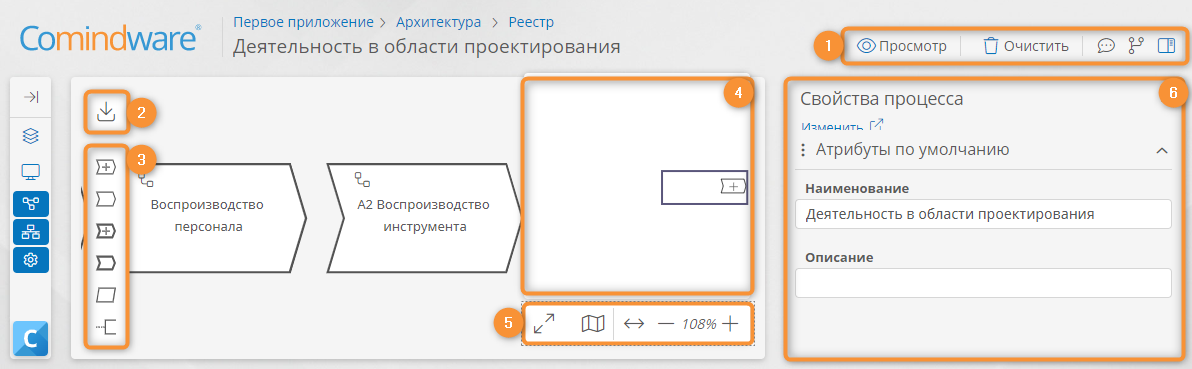
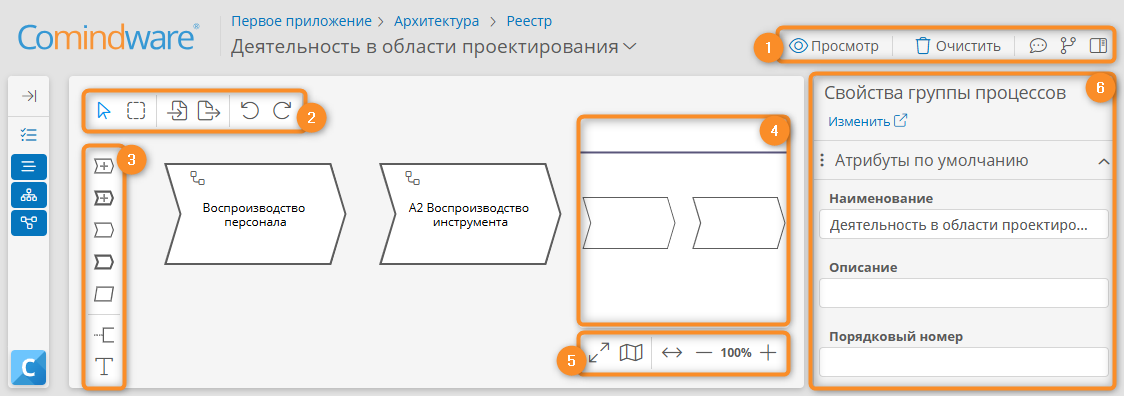
[#1864359] Edited architect designer index.md and screenshots

Changed region(s): [[0.0, 0.0596, 1.0, 1.0], [0.0, 0.0298, 0.5605, 0.1491]]

diff --git a/docs/ru/architect/process_architecture_modeling/diagram_designer/index.md b/docs/ru/architect/process_architecture_modeling/diagram_designer/index.md
@@ -30,23 +30,34 @@ hide:
 
 *![Конструктор диаграмм бизнес-способностей](process_architecture_modeling_business_capabilities_diagram_designer.png)*
 
-1. Кнопки типовых операций
+1. Кнопки типовых операций:
     * **Просмотр** <i class="fa-light fa-eye"></i> — переход в режим просмотра диаграммы.
     * **Очистить** <i class="fa-light fa-trash"></i> — безвозвратное удаление всех элементов с диаграммы. При нажатии этой кнопки отобразится запрос подтверждения.
     * **Обсуждение** <i class="fa-light fa-comment-dots"></i> — отображение чата для обсуждения диаграммы.
     * **Версии** <i class="fa-light fa-code-branch"></i> — управление версиями диаграммы.
     * **Свойства** <i class="fa-light fa-sidebar-flip"></i> — [настройка свойств][architect_configuring_process_entity_properties] выбранного элемента или всей диаграммы.
 2. Кнопки работы с диаграммой:
-    * **Указатель** <i class=" fal  fa-arrow-pointer "></i>
-    * **Лассо** <i class=" fal  fa-square-dashed "></i>
-    * **Импорт** <i class="fa-light fa-arrow-down-to-bracket"></i>
-    * **Экспорт** <i class=" fal  fa-file-export "></i>
-    * **Проверить** <i class="fa-light  fa-circle-exclamation-check"></i> — позволяют [импортировать][architect_importing_process_entity] и [проверить диаграмму][architect_verify_diagram]. Кнопка «**Проверить**» отображается только для диаграмм процессов. Проверка диаграмм бизнес-способностей не предусмотрена.
-    * **Отменить** <i class=" fal  fa-arrow-rotate-left "></i>
-    * **Повторить** <i class=" fal  fa-arrow-rotate-right "></i>
+    * **Указатель** <i class=" fal  fa-arrow-pointer "></i> — режим выбора одного элемента диаграммы.
+    * **Лассо** <i class=" fal  fa-square-dashed "></i> — режим захвата нескольких элементов диаграммы.
+    * **Импорт** <i class=" fal  fa-file-import "></i> — [загрузка диаграммы][architect_exporting_process_entity] из файла формата `BPMN`.
+    * **Экспорт** <i class=" fal  fa-file-export "></i> — [выгрузка диаграммы][architect_importing_process_entity] в виде файла формата `BPMN`, `PNG` или `SVG`. При нажатии этой кнопки браузер скачает файл с названием диаграммы выбранного формата.
+    * **Проверить** <i class="fa-light  fa-circle-exclamation-check"></i> — [проверка диаграммы][architect_verify_diagram]. Кнопка «**Проверить**» отображается только для диаграмм процессов. Проверка диаграмм бизнес-способностей не предусмотрена.
+    * **Отменить** <i class=" fal  fa-arrow-rotate-left "></i> — отмена последнего действия.
+    * **Повторить** <i class=" fal  fa-arrow-rotate-right "></i> — повтор последнего отменённого действия.
 3. Палитра элементов — содержит либо элементы нотации BPMN 2.0, либо элементы нотации бизнес-способностей.
 --8<-- "process_architecture_diagram_zoom_controls.md"
-4. Панель свойств. В этой области также отображаются панель обсуждения и панель версий диаграммы.
+6. Панель свойств. В этой области также отображаются панель обсуждения и панель версий диаграммы.
+
+### Управление с помощью клавиатуры
+
+В конструкторе диаграммы можно использовать следующие сочетания клавиш:
+
+- ++ctrl+c++ — копировать выбранные элементы в буфер обмена.
+- ++ctrl+v++ — вставить элементы из буфера обмена.
+- ++ctrl+x++ — вырезать выбранные элементы в буфер обмена.
+- ++ctrl+z++ — отменить последнее действие.
+- ++ctrl+y++ или ++ctrl+shift+z++ — повторить последнее отменённое действие.
+- ++del++ — удалить выбранные элементы.
 
 ### Меню элемента
 
@@ -72,7 +83,10 @@ end="<!--navigating-to-child-end-->"
 --8<-- "related_topics_heading.md"
 
 - _[Просмотр реестра процессов][architect_process_architecture_modelling]_
-- _[Редактирование диаграммы][architect_edit_diagram]_**[Просмотр диаграммы][architect_viewing_diagram]**
+- _[Редактирование диаграммы][architect_edit_diagram]_
+- _[Просмотр диаграммы][architect_viewing_diagram]_
+- _[Экспорт диаграмм и регламентов процессов][architect_exporting_process_entity]_
+- _[Импорт диаграмм процессов][architect_importing_process_entity]_
 
 </div>
 
